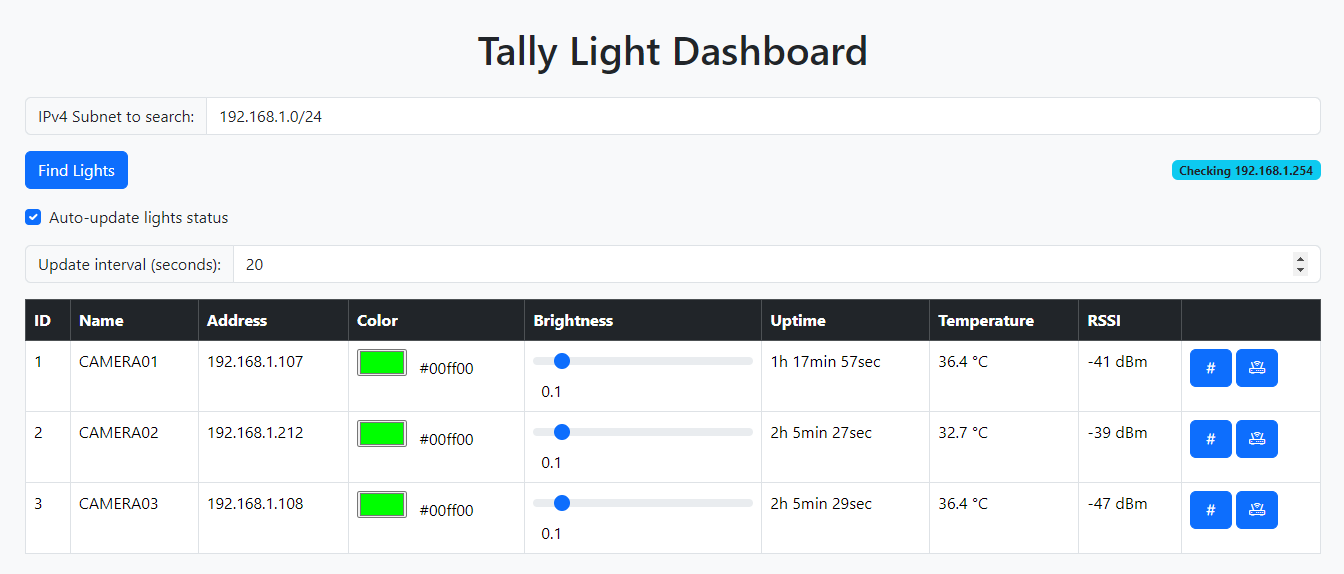
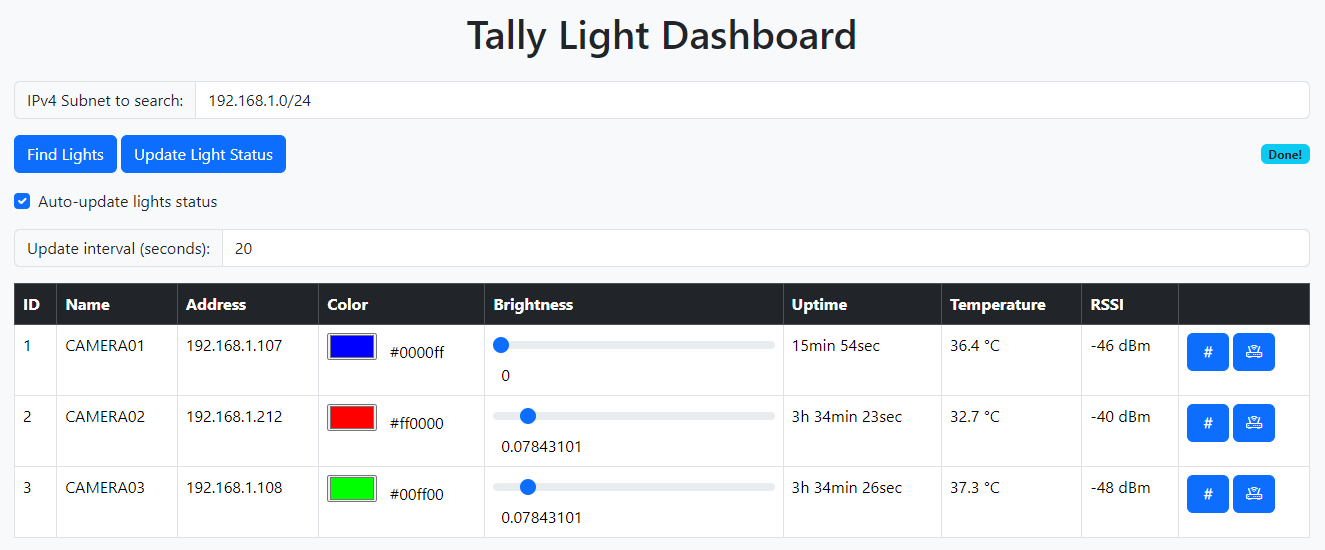
Minor improvements

diff --git a/dashboard.html b/dashboard.html
@@ -17,7 +17,10 @@
     </div>
 
     <div class="d-flex justify-content-between align-items-center mb-3">
-      <button class="btn btn-primary" @click="searchLights">Find Lights</button>
+      <div>
+        <button class="btn btn-primary" @click="searchLights">Find Lights</button>
+        <button class="btn btn-primary" @click="updateLightsStatus">Update Light Status</button>
+      </div>
       <span class="badge bg-info text-dark">{{ status }}</span>
     </div>
 

diff --git a/src/main.py b/src/main.py
@@ -153,7 +153,7 @@ async def status(req, res):
         "red": r,
         "green": g,
         "blue": b,
-        "brightness": brightness,
+        "brightness": round(brightness, 3),
         "rssi": wlan.status('rssi'),
         "temperature": readTemp(),
         "uptime": round(time.ticks_diff(time.ticks_ms(), startTime) / 1000)
@@ -176,19 +176,36 @@ async def set(req, res):
             brightness = float(brightness)
             
             if 0 <= brightness <= 1:
-                response = f"Color set to (R: {r}, G: {g}, B: {b}), brightness set to {brightness}"
                 leds.pixels_fill((r, g, b), brightness)
                 leds.pixels_show()
                 time.sleep(0.05)
                 leds.pixels_show()
+                
+                status = {
+                    "status": "success",
+                    "hostname": config['name'],
+                    "id": config['id'],
+                    "address": address,
+                    "red": r,
+                    "green": g,
+                    "blue": b,
+                    "brightness": round(brightness, 3),
+                    "rssi": wlan.status('rssi'),
+                    "temperature": readTemp(),
+                    "uptime": round(time.ticks_diff(time.ticks_ms(), startTime) / 1000)
+                }
+                response = ujson.dumps(status)
             else:
-                response = "Brightness must be between 0 and 1"
+                msg = "Brightness must be between 0 and 1"
+                response = ujson.dumps({"status":"error", "message": msg})
         else:
-            response = "Invalid request"
+            msg = "Invalid request"
+            response = ujson.dumps({"status":"error", "message": msg})
     except ValueError:
-        response = "Invalid color or brightness value"
+        msg = "Invalid color or brightness value"
+        response = ujson.dumps({"status":"error", "message": msg})
         
-    await res.start_html()
+    await res.start_json()
     await res.send(response)
 
 @app.route("/setRGB")
@@ -203,17 +220,33 @@ async def set(req, res):
         brightness = float(params.get('brightness', 0))
         
         if 0 <= brightness <= 1 and 0 <= r <= 255 and  0 <= g <= 255 and  0 <= b <= 255:
-            response = f"Color set to (R: {r}, G: {g}, B: {b}), brightness set to {brightness}"
             leds.pixels_fill((r, g, b), brightness)
             leds.pixels_show()
             time.sleep(0.05)
             leds.pixels_show()
+            
+            status = {
+                "status": "success",
+                "hostname": config['name'],
+                "id": config['id'],
+                "address": address,
+                "red": r,
+                "green": g,
+                "blue": b,
+                "brightness": round(brightness, 3),
+                "rssi": wlan.status('rssi'),
+                "temperature": readTemp(),
+                "uptime": round(time.ticks_diff(time.ticks_ms(), startTime) / 1000)
+            }
+            response = ujson.dumps(status)
         else:
-            response = "Brightness must be between 0 and 1"
+            msg = "Brightness must be between 0 and 1"
+            response = ujson.dumps({"status":"error", "message": msg})
     except ValueError:
-        response = "Invalid color or brightness value"
+        msg = "Invalid color or brightness value"
+        response = ujson.dumps({"status":"error", "message": msg})
         
-    await res.start_html()
+    await res.start_json()
     await res.send(response)
 
 # connect to wifi and start webserver
